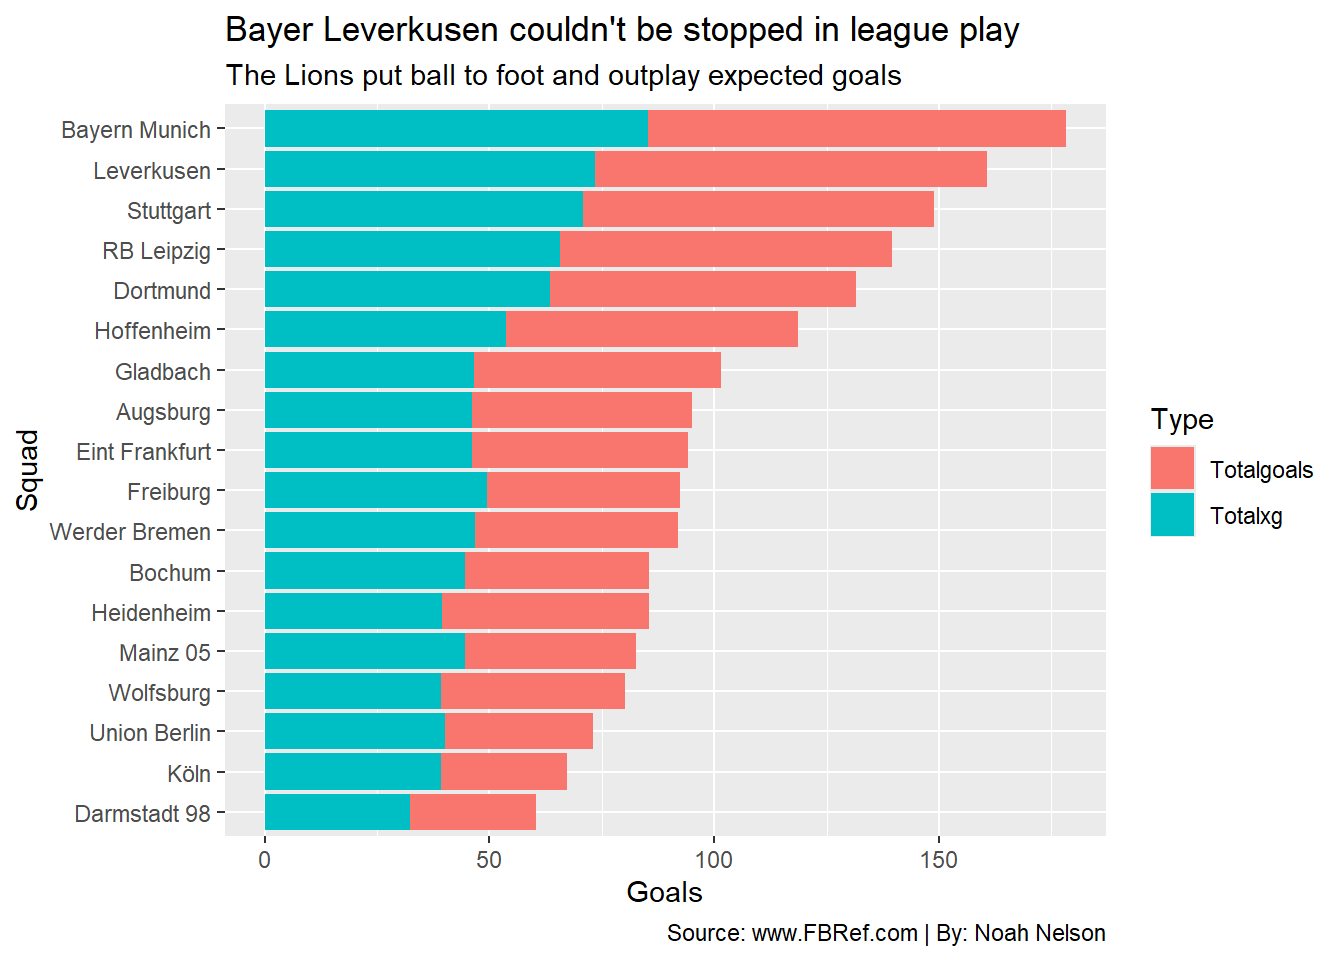
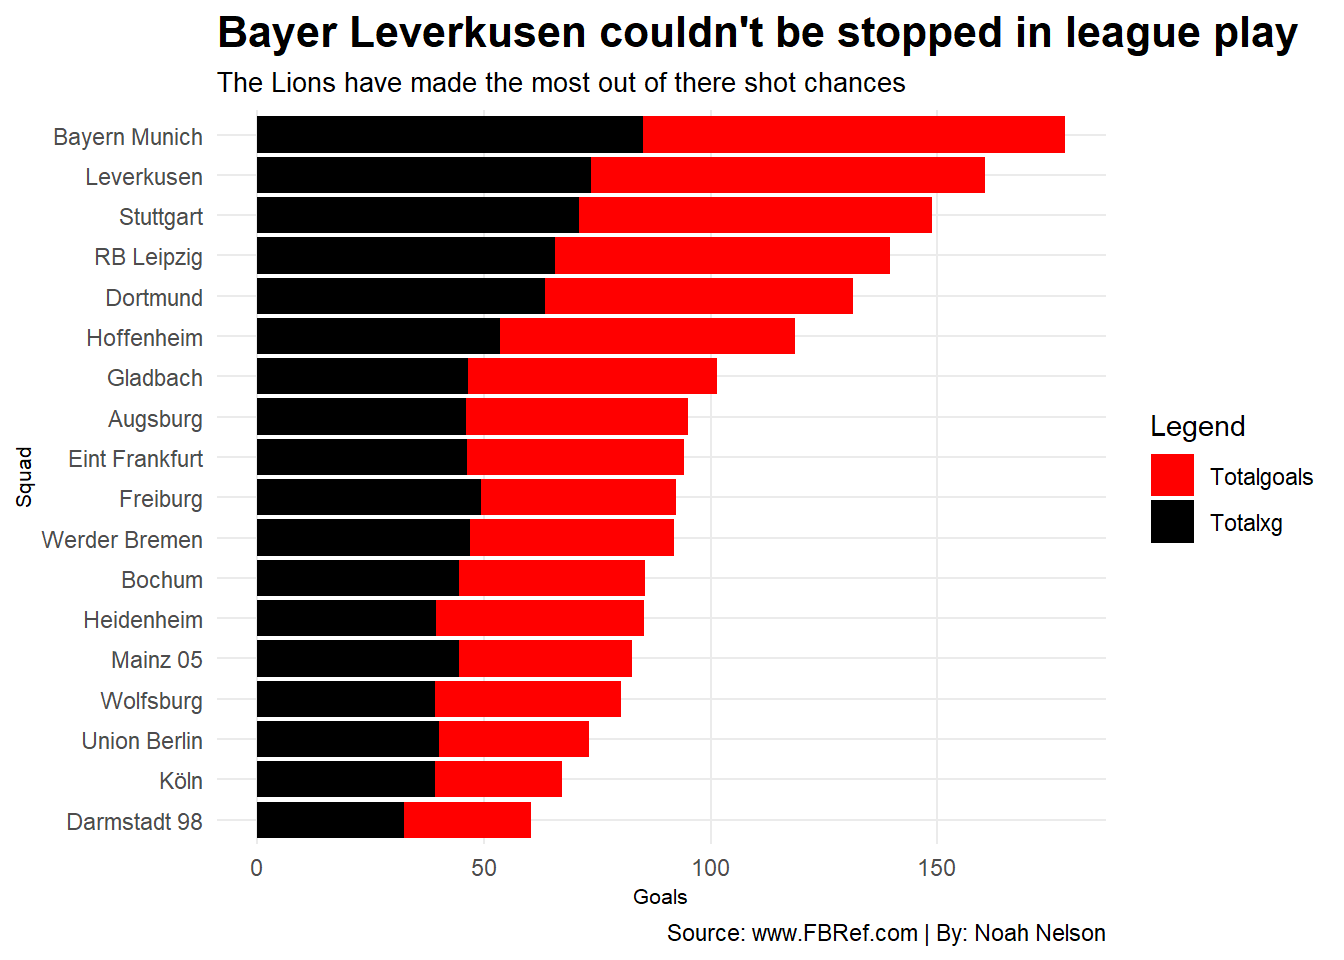
code update

diff --git a/posts/Leverkusen-and-undefeated-season/index.html b/posts/Leverkusen-and-undefeated-season/index.html
@@ -194,56 +194,44 @@ pre > code.sourceCode > span > a:first-child::before { text-decoration: underlin
 <div class="cell">
 <details class="code-fold">
 <summary>Code</summary>
-<div class="sourceCode cell-code" id="cb1"><pre class="sourceCode r code-with-copy"><code class="sourceCode r"><span id="cb1-1"><a href="#cb1-1" aria-hidden="true" tabindex="-1"></a><span class="fu">library</span>(tidyverse)</span></code><button title="Copy to Clipboard" class="code-copy-button"><i class="bi"></i></button></pre></div>
-</details>
-<div class="cell-output cell-output-stderr">
-<pre><code>── Attaching core tidyverse packages ──────────────────────── tidyverse 2.0.0 ──
-✔ dplyr     1.1.4     ✔ readr     2.1.5
-✔ forcats   1.0.0     ✔ stringr   1.5.1
-✔ ggplot2   3.5.1     ✔ tibble    3.2.1
-✔ lubridate 1.9.3     ✔ tidyr     1.3.1
-✔ purrr     1.0.2     
-── Conflicts ────────────────────────────────────────── tidyverse_conflicts() ──
-✖ dplyr::filter() masks stats::filter()
-✖ dplyr::lag()    masks stats::lag()
-ℹ Use the conflicted package (&lt;http://conflicted.r-lib.org/&gt;) to force all conflicts to become errors</code></pre>
-</div>
-<details class="code-fold">
-<summary>Code</summary>
-<div class="sourceCode cell-code" id="cb3"><pre class="sourceCode r code-with-copy"><code class="sourceCode r"><span id="cb3-1"><a href="#cb3-1" aria-hidden="true" tabindex="-1"></a>bundesligagoals <span class="ot">&lt;-</span> <span class="fu">read_csv</span>(<span class="st">"data/xpgoalsbundesliga.csv"</span>)</span></code><button title="Copy to Clipboard" class="code-copy-button"><i class="bi"></i></button></pre></div>
-</details>
-<div class="cell-output cell-output-stderr">
-<pre><code>Rows: 18 Columns: 20
-── Column specification ────────────────────────────────────────────────────────
-Delimiter: ","
-chr  (1): Squad
-dbl (19): # Pl, 90s, Gls, Sh, SoT, SoT%, Sh/90, SoT/90, G/Sh, G/SoT, Dist, F...
-
-ℹ Use `spec()` to retrieve the full column specification for this data.
-ℹ Specify the column types or set `show_col_types = FALSE` to quiet this message.</code></pre>
-</div>
-<details class="code-fold">
-<summary>Code</summary>
-<div class="sourceCode cell-code" id="cb5"><pre class="sourceCode r code-with-copy"><code class="sourceCode r"><span id="cb5-1"><a href="#cb5-1" aria-hidden="true" tabindex="-1"></a>bundesligagoalswide <span class="ot">&lt;-</span> bundesligagoals <span class="sc">|&gt;</span> </span>
-<span id="cb5-2"><a href="#cb5-2" aria-hidden="true" tabindex="-1"></a>  <span class="fu">group_by</span>(Squad) <span class="sc">|&gt;</span> </span>
-<span id="cb5-3"><a href="#cb5-3" aria-hidden="true" tabindex="-1"></a>  <span class="fu">summarise</span>(</span>
-<span id="cb5-4"><a href="#cb5-4" aria-hidden="true" tabindex="-1"></a>    <span class="at">Totalxg =</span> <span class="fu">sum</span>(xG),</span>
-<span id="cb5-5"><a href="#cb5-5" aria-hidden="true" tabindex="-1"></a>    <span class="at">Totalgoals =</span> <span class="fu">sum</span>(Gls)</span>
-<span id="cb5-6"><a href="#cb5-6" aria-hidden="true" tabindex="-1"></a>  )</span>
-<span id="cb5-7"><a href="#cb5-7" aria-hidden="true" tabindex="-1"></a>longbundesliga <span class="ot">&lt;-</span> bundesligagoalswide <span class="sc">|&gt;</span> </span>
-<span id="cb5-8"><a href="#cb5-8" aria-hidden="true" tabindex="-1"></a>  <span class="fu">pivot_longer</span>(</span>
-<span id="cb5-9"><a href="#cb5-9" aria-hidden="true" tabindex="-1"></a>    <span class="at">cols=</span><span class="fu">starts_with</span>(<span class="st">"Total"</span>), </span>
-<span id="cb5-10"><a href="#cb5-10" aria-hidden="true" tabindex="-1"></a>    <span class="at">names_to=</span><span class="st">"Type"</span>, </span>
-<span id="cb5-11"><a href="#cb5-11" aria-hidden="true" tabindex="-1"></a>    <span class="at">values_to=</span><span class="st">"goals"</span>)</span>
-<span id="cb5-12"><a href="#cb5-12" aria-hidden="true" tabindex="-1"></a><span class="fu">ggplot</span>() <span class="sc">+</span> </span>
-<span id="cb5-13"><a href="#cb5-13" aria-hidden="true" tabindex="-1"></a>  <span class="fu">geom_bar</span>(<span class="at">data=</span>longbundesliga, <span class="fu">aes</span>(<span class="at">x=</span><span class="fu">reorder</span>(Squad,goals), <span class="at">weight=</span>goals, <span class="at">fill=</span>Type)) <span class="sc">+</span></span>
-<span id="cb5-14"><a href="#cb5-14" aria-hidden="true" tabindex="-1"></a>  <span class="fu">coord_flip</span>() <span class="sc">+</span> </span>
-<span id="cb5-15"><a href="#cb5-15" aria-hidden="true" tabindex="-1"></a>  <span class="fu">labs</span>(</span>
-<span id="cb5-16"><a href="#cb5-16" aria-hidden="true" tabindex="-1"></a>    <span class="at">y =</span> <span class="st">"Goals"</span>,</span>
-<span id="cb5-17"><a href="#cb5-17" aria-hidden="true" tabindex="-1"></a>    <span class="at">x =</span> <span class="st">"Squad"</span>,</span>
-<span id="cb5-18"><a href="#cb5-18" aria-hidden="true" tabindex="-1"></a>    <span class="at">title =</span> <span class="st">"Bayer Leverkusen couldn't be stopped in league play"</span>,</span>
-<span id="cb5-19"><a href="#cb5-19" aria-hidden="true" tabindex="-1"></a>    <span class="at">subtitle =</span> <span class="st">"The Lions put ball to foot and outplay expected goals"</span>,</span>
-<span id="cb5-20"><a href="#cb5-20" aria-hidden="true" tabindex="-1"></a>    <span class="at">caption=</span><span class="st">"Source: www.FBRef.com | By: Noah Nelson"</span>)</span></code><button title="Copy to Clipboard" class="code-copy-button"><i class="bi"></i></button></pre></div>
+<div class="sourceCode cell-code" id="cb1"><pre class="sourceCode r code-with-copy"><code class="sourceCode r"><span id="cb1-1"><a href="#cb1-1" aria-hidden="true" tabindex="-1"></a><span class="fu">library</span>(tidyverse)</span>
+<span id="cb1-2"><a href="#cb1-2" aria-hidden="true" tabindex="-1"></a></span>
+<span id="cb1-3"><a href="#cb1-3" aria-hidden="true" tabindex="-1"></a></span>
+<span id="cb1-4"><a href="#cb1-4" aria-hidden="true" tabindex="-1"></a>bundesligagoals <span class="ot">&lt;-</span> <span class="fu">read_csv</span>(<span class="st">"data/xpgoalsbundesliga.csv"</span>)</span>
+<span id="cb1-5"><a href="#cb1-5" aria-hidden="true" tabindex="-1"></a></span>
+<span id="cb1-6"><a href="#cb1-6" aria-hidden="true" tabindex="-1"></a>bundesligagoalswide <span class="ot">&lt;-</span> bundesligagoals <span class="sc">|&gt;</span> </span>
+<span id="cb1-7"><a href="#cb1-7" aria-hidden="true" tabindex="-1"></a>  <span class="fu">group_by</span>(Squad) <span class="sc">|&gt;</span> </span>
+<span id="cb1-8"><a href="#cb1-8" aria-hidden="true" tabindex="-1"></a>  <span class="fu">summarise</span>(</span>
+<span id="cb1-9"><a href="#cb1-9" aria-hidden="true" tabindex="-1"></a>    <span class="at">Totalxg =</span> <span class="fu">sum</span>(xG),</span>
+<span id="cb1-10"><a href="#cb1-10" aria-hidden="true" tabindex="-1"></a>    <span class="at">Totalgoals =</span> <span class="fu">sum</span>(Gls)</span>
+<span id="cb1-11"><a href="#cb1-11" aria-hidden="true" tabindex="-1"></a>  )</span>
+<span id="cb1-12"><a href="#cb1-12" aria-hidden="true" tabindex="-1"></a></span>
+<span id="cb1-13"><a href="#cb1-13" aria-hidden="true" tabindex="-1"></a>longbundesliga <span class="ot">&lt;-</span> bundesligagoalswide <span class="sc">|&gt;</span> </span>
+<span id="cb1-14"><a href="#cb1-14" aria-hidden="true" tabindex="-1"></a>  <span class="fu">pivot_longer</span>(</span>
+<span id="cb1-15"><a href="#cb1-15" aria-hidden="true" tabindex="-1"></a>    <span class="at">cols=</span><span class="fu">starts_with</span>(<span class="st">"Total"</span>), </span>
+<span id="cb1-16"><a href="#cb1-16" aria-hidden="true" tabindex="-1"></a>    <span class="at">names_to=</span><span class="st">"Type"</span>, </span>
+<span id="cb1-17"><a href="#cb1-17" aria-hidden="true" tabindex="-1"></a>    <span class="at">values_to=</span><span class="st">"goals"</span>)</span>
+<span id="cb1-18"><a href="#cb1-18" aria-hidden="true" tabindex="-1"></a></span>
+<span id="cb1-19"><a href="#cb1-19" aria-hidden="true" tabindex="-1"></a></span>
+<span id="cb1-20"><a href="#cb1-20" aria-hidden="true" tabindex="-1"></a><span class="fu">ggplot</span>() <span class="sc">+</span> </span>
+<span id="cb1-21"><a href="#cb1-21" aria-hidden="true" tabindex="-1"></a>  <span class="fu">geom_bar</span>(<span class="at">data=</span>longbundesliga, <span class="fu">aes</span>(<span class="at">x=</span><span class="fu">reorder</span>(Squad,goals), <span class="at">weight=</span>goals, <span class="at">fill=</span>Type)) <span class="sc">+</span></span>
+<span id="cb1-22"><a href="#cb1-22" aria-hidden="true" tabindex="-1"></a>  <span class="fu">coord_flip</span>() <span class="sc">+</span> </span>
+<span id="cb1-23"><a href="#cb1-23" aria-hidden="true" tabindex="-1"></a>  <span class="fu">guides</span>(<span class="at">fill =</span> <span class="fu">guide_legend</span>(<span class="at">title =</span> <span class="st">"Legend"</span>)) <span class="sc">+</span></span>
+<span id="cb1-24"><a href="#cb1-24" aria-hidden="true" tabindex="-1"></a>   <span class="fu">scale_fill_discrete</span>(<span class="at">labels =</span> <span class="fu">c</span>(<span class="st">"Goals"</span>, <span class="st">"Expected Goals"</span>)) <span class="sc">+</span></span>
+<span id="cb1-25"><a href="#cb1-25" aria-hidden="true" tabindex="-1"></a>  <span class="fu">scale_fill_manual</span>(<span class="at">values =</span> <span class="fu">c</span>(<span class="st">"red"</span>, <span class="st">"black"</span>)) <span class="sc">+</span></span>
+<span id="cb1-26"><a href="#cb1-26" aria-hidden="true" tabindex="-1"></a>  <span class="fu">labs</span>(</span>
+<span id="cb1-27"><a href="#cb1-27" aria-hidden="true" tabindex="-1"></a>    <span class="at">y =</span> <span class="st">"Goals"</span>,</span>
+<span id="cb1-28"><a href="#cb1-28" aria-hidden="true" tabindex="-1"></a>    <span class="at">x =</span> <span class="st">"Squad"</span>,</span>
+<span id="cb1-29"><a href="#cb1-29" aria-hidden="true" tabindex="-1"></a>    <span class="at">title =</span> <span class="st">"Bayer Leverkusen couldn't be stopped in league play"</span>,</span>
+<span id="cb1-30"><a href="#cb1-30" aria-hidden="true" tabindex="-1"></a>    <span class="at">subtitle =</span> <span class="st">"The Lions have made the most out of there shot chances"</span>,</span>
+<span id="cb1-31"><a href="#cb1-31" aria-hidden="true" tabindex="-1"></a>    <span class="at">caption=</span><span class="st">"Source: www.FBRef.com | By: Noah Nelson"</span>) <span class="sc">+</span></span>
+<span id="cb1-32"><a href="#cb1-32" aria-hidden="true" tabindex="-1"></a>   <span class="fu">theme_minimal</span>() <span class="sc">+</span></span>
+<span id="cb1-33"><a href="#cb1-33" aria-hidden="true" tabindex="-1"></a>  <span class="fu">theme</span>(</span>
+<span id="cb1-34"><a href="#cb1-34" aria-hidden="true" tabindex="-1"></a>    <span class="at">plot.title =</span> <span class="fu">element_text</span>(<span class="at">size =</span> <span class="dv">16</span>, <span class="at">face =</span> <span class="st">"bold"</span>),</span>
+<span id="cb1-35"><a href="#cb1-35" aria-hidden="true" tabindex="-1"></a>    <span class="at">axis.title =</span> <span class="fu">element_text</span>(<span class="at">size =</span> <span class="dv">8</span>),</span>
+<span id="cb1-36"><a href="#cb1-36" aria-hidden="true" tabindex="-1"></a>    <span class="at">plot.subtitle =</span> <span class="fu">element_text</span>(<span class="at">size =</span> <span class="dv">10</span>),</span>
+<span id="cb1-37"><a href="#cb1-37" aria-hidden="true" tabindex="-1"></a>    <span class="at">panel.grid.minor =</span> <span class="fu">element_blank</span>() </span>
+<span id="cb1-38"><a href="#cb1-38" aria-hidden="true" tabindex="-1"></a>  )</span></code><button title="Copy to Clipboard" class="code-copy-button"><i class="bi"></i></button></pre></div>
 </details>
 <div class="cell-output-display">
 <div>
@@ -253,6 +241,7 @@ dbl (19): # Pl, 90s, Gls, Sh, SoT, SoT%, Sh/90, SoT/90, G/Sh, G/SoT, Dist, F...
 </div>
 </div>
 </div>
+<p>Bayer Leverkusen has been able to convert more goals than what they were expected. This would mean that they were taking shots or given chances that they were not supposed to have and ended up converting on some of them. This also shows that they weren’t just relying on there defense and goalkeeper to win them games but the offense were able to cash in on some extra chances. They had three players score more than ten goals last season which was more than any other team in the Bundesliga.</p>
 
 
 

diff --git a/index.html b/index.html
@@ -205,7 +205,7 @@ window.Quarto = {
 
 <div class="quarto-listing quarto-listing-container-default" id="listing-listing">
 <div class="list quarto-listing-default">
-<div class="quarto-post image-right" data-index="0" data-categories="QnVuZGVzbGlnYSxGSUZBLFNvY2Nlcg==" data-listing-date-sort="1730786400000" data-listing-file-modified-sort="1731697808742" data-listing-date-modified-sort="NaN" data-listing-reading-time-sort="1" data-listing-word-count-sort="119">
+<div class="quarto-post image-right" data-index="0" data-categories="QnVuZGVzbGlnYSxGSUZBLFNvY2Nlcg==" data-listing-date-sort="1730786400000" data-listing-file-modified-sort="1731706870582" data-listing-date-modified-sort="NaN" data-listing-reading-time-sort="2" data-listing-word-count-sort="275">
 <div class="thumbnail">
 <p><a href="./posts/Leverkusen-and-undefeated-season/index.html" class="no-external"></a></p><a href="./posts/Leverkusen-and-undefeated-season/index.html" class="no-external">
 <p class="card-img-top"><img src="posts\Leverkusen-and-undefeated-season\index_files\figure-html\unnamed-chunk-1-1.png"  class="thumbnail-image card-img"/></p>
